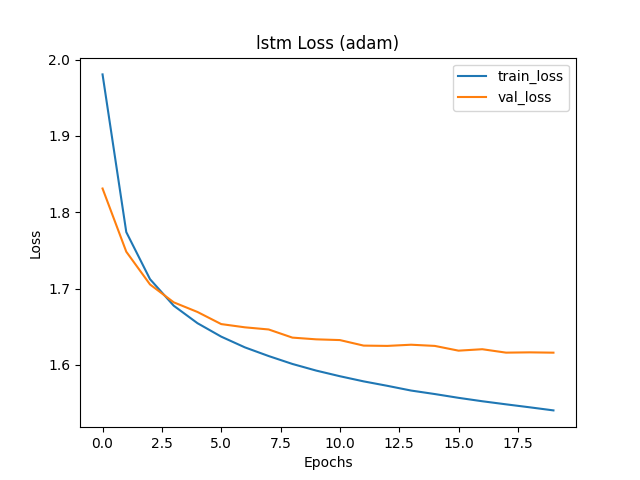
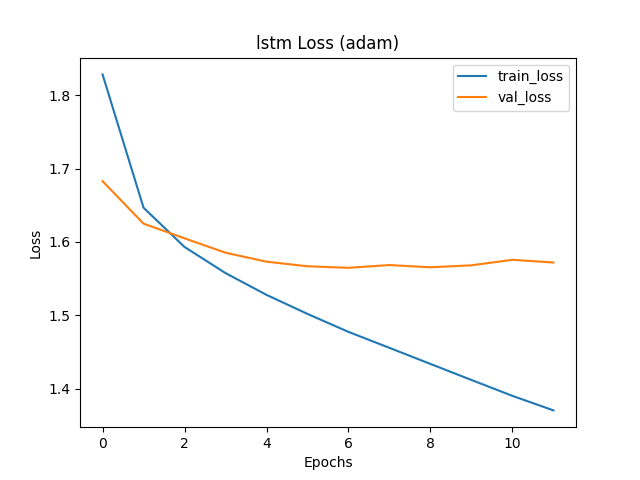
Changed lstm hyperparameters to make the model more complex, hidden = 512 embedded = 256 and num_layers = 2 and added 0.2 dropout

diff --git a/scripts/03_train_lstm.py b/scripts/03_train_lstm.py
@@ -20,8 +20,8 @@ PATIENCE = 5
 NUM_CHARS_TO_GENERATE = 200
 SEED_TEXT = "دل کی بات "
 NUM_SAMPLES = 3
-EMBED_DIM = 100
-HIDDEN_DIM = 150
+EMBED_DIM = 256
+HIDDEN_DIM = 512
 DEVICE = torch.device("cuda" if torch.cuda.is_available() else "cpu")
 
 print("CUDA available:", torch.cuda.is_available())
@@ -65,7 +65,7 @@ class LSTMModel(nn.Module):
     def __init__(self, vocab_size, embed_dim, hidden_dim):
         super(LSTMModel, self).__init__()
         self.embedding = nn.Embedding(vocab_size, embed_dim)
-        self.lstm = nn.LSTM(embed_dim, hidden_dim, batch_first=True)
+        self.lstm = nn.LSTM(embed_dim, hidden_dim, num_layers= 2,dropout=0.2, batch_first=True)
         self.fc = nn.Linear(hidden_dim, vocab_size)
 
     def forward(self, x):
